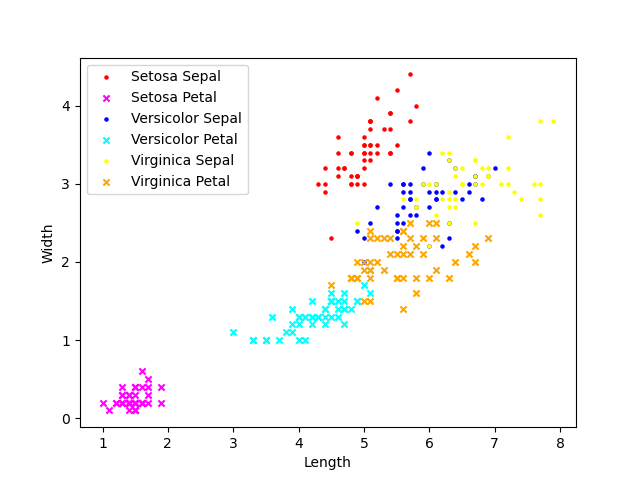
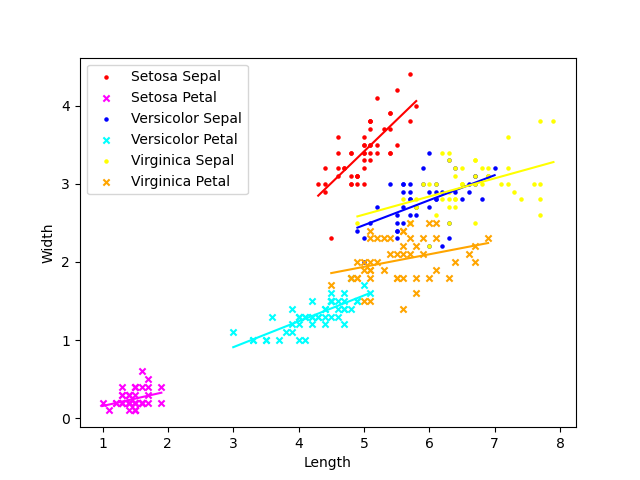
Got regresion lines working on Scatterplot for each variable pairing

diff --git a/PANDS-Project/analysis.py b/PANDS-Project/analysis.py
@@ -9,6 +9,7 @@
 # https://www.geeksforgeeks.org/get-unique-values-from-a-column-in-pandas-dataframe/
 # https://www.w3schools.com/python/matplotlib_scatter.asp
 # https://stackoverflow.com/questions/9622163/save-plot-to-image-file-instead-of-displaying-it
+# https://python-graph-gallery.com/scatterplot-with-regression-fit-in-matplotlib/
 
 
 
@@ -25,7 +26,7 @@
 import numpy as np
 import pandas as pd
 import matplotlib.pyplot as pt
-import scipy.stats as st
+#import scipy.stats as st
 
 
 ## Definitions of variables
@@ -76,11 +77,11 @@ pd.options.display.max_rows = 150
 #Get Description of dataset using Describe function
 describe = df.groupby('Species').describe(include = 'all')
 pd.set_option('display.max_columns', None)
-print (describe)
+#print (describe)
 
 #Detect unique values in Column and assign those values to a set which will then be used for grouping in the plots. 
 uniqueSpecies = df['Species'].unique()
-print(uniqueSpecies)
+#print(uniqueSpecies)
 
 # split the dataframe into smaller dataframes by column value (species type)
 df1 = df[df['Species'] == uniqueSpecies[0]] #Setosa
@@ -90,7 +91,7 @@ df3 = df[df['Species'] == uniqueSpecies[2]] #Virginicia
 #print (df2)
 #print (df3)
 
-'''
+
 #Scatterplot
 # define plot parameters - 
 # come back to this because i should be able to run this in a for loop to select the different species names automatically from Unique Species array. 
@@ -102,13 +103,44 @@ ax4=df2.plot(kind = 'scatter', x = 'Petal Length', y = 'Petal Width', marker = '
 ax5=df3.plot(kind = 'scatter', x = 'Sepal Length', y = 'Sepal Width', marker = '.', c = 'yellow' , label = 'Virginica Sepal',ax = ax1)
 ax6=df3.plot(kind = 'scatter', x = 'Petal Length', y = 'Petal Width', marker = 'x', c = 'orange', label = 'Virginica Petal', ax = ax1, legend =True)
 
+#calculate the straight line best fits for each dataset pair
+b1, a1 = np.polyfit(df1['Sepal Length'], df1['Sepal Width'], deg=1)
+b2, a2 = np.polyfit(df1['Petal Length'], df1['Petal Width'], deg=1)
+b3, a3 = np.polyfit(df2['Sepal Length'], df2['Sepal Width'], deg=1)
+b4, a4 = np.polyfit(df2['Petal Length'], df2['Petal Width'], deg=1)
+b5, a5 = np.polyfit(df3['Sepal Length'], df3['Sepal Width'], deg=1)
+b6, a6 = np.polyfit(df3['Petal Length'], df3['Petal Width'], deg=1)
+# set upper and lower limits for lines to start and finish at 
+xseq1 = np.linspace(min(df1['Sepal Length']), max(df1['Sepal Length']), num=100)
+xseq2 = np.linspace(min(df1['Petal Length']), max(df1['Petal Length']), num=100)
+xseq3 = np.linspace(min(df2['Sepal Length']), max(df2['Sepal Length']), num=100)
+xseq4 = np.linspace(min(df2['Petal Length']), max(df2['Petal Length']), num=100)
+xseq5 = np.linspace(min(df3['Sepal Length']), max(df3['Sepal Length']), num=100)
+xseq6 = np.linspace(min(df3['Petal Length']), max(df3['Petal Length']), num=100)
+
+#print a & b pairs for each pair
+print(b1,a1)
+print(b2,a2)
+print(b3,a3)
+print(b4,a4)
+print(b5,a5)
+print(b6,a6)
+
+# add straight line regression lines to each scatterplot pair
+ax22=pt.plot(xseq1, a1 + b1 * xseq1, c = 'red', label = 'Setosa Sepal')
+ax23=pt.plot(xseq2, a2 + b2 * xseq2, c = 'magenta', label = 'Setosa Petal')
+ax24=pt.plot(xseq3, a3 + b3 * xseq3, c = 'blue' , label = 'Versicolor Sepal')
+ax25=pt.plot(xseq4, a4 + b4 * xseq4, c = 'cyan', label = 'Versicolor Petal')
+ax26=pt.plot(xseq5, a5 + b5 * xseq5, c = 'yellow' , label = 'Virginica Sepal')
+ax27=pt.plot(xseq6, a6 + b6 * xseq6, c = 'orange', label = 'Virginica Petal')
+
 # define plot labels
 ax1.set_xlabel('Length')
 ax1.set_ylabel('Width')
 # command to show plot 
 
 pt.savefig('scatterplotsummary.png')
-#pt.show()
+pt.show()
 
 
 # Display Correlation between variables. 
@@ -121,8 +153,8 @@ ax8 = df2.plot(kind = 'hist', title ='Histogram of Versicolor Measurments', xlab
 ax9 = df3.plot(kind = 'hist', title ='Histogram of Virginicia Measurments', xlabel = 'Length (cm)', ylabel = 'Frequency')
 
 pt.savefig('histogramSetosa.png')
-pt.show()
-'''
+#pt.show()
+
 
 # Now i want to slice the historams the other way, showing 1 variable: (length of petal etc) for each species for comparison
 # for petal length: 
@@ -156,10 +188,10 @@ ax20 = df2.plot(kind = 'hist', label = 'Iris-Versicolor', column =["Sepal Width"
 ax21 = df3.plot(kind = 'hist', label = 'Iris-Virginica', column =["Sepal Width","Species"], xlabel = 'Sepal Width in cm', ylabel = 'Frequency', edgecolor = "black", ax = ax19)
 pt.legend(labels)
 pt.savefig('HistogramSepalWidth.png')
-pt.show()
+#pt.show()
 
 # Perform a 2-sample t test on the variables
-st.ttest_ind(a=df1("Petal Length"), b=df2("Petal Length"), equal_var=True)
+#st.ttest_ind(a=df1("Petal Length"), b=df2("Petal Length"), equal_var=True)
 
 
 # print description on screen
